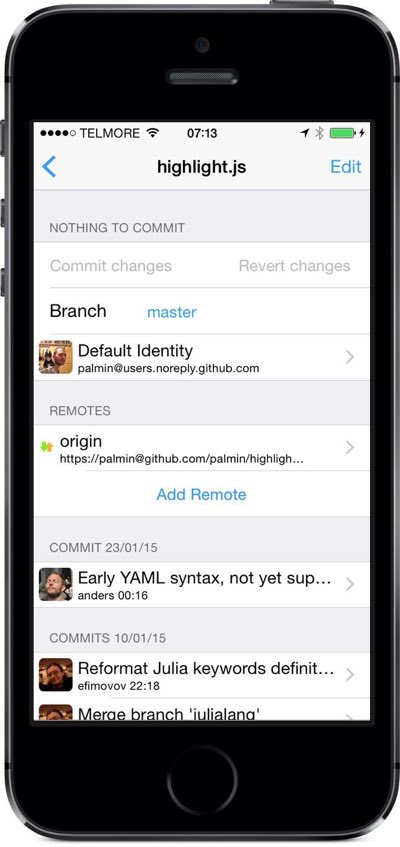
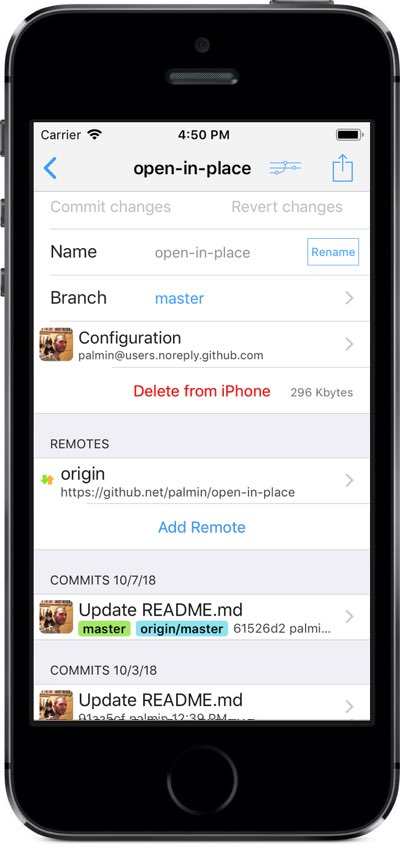
describe how to delete commits and update screenshots to show delete button

diff --git a/manual.html b/manual.html
@@ -49,7 +49,8 @@
             <li class="header3"><a href="#cloning-repos">1.1 Cloning repositories</a>,</li>
             <li class="header3"><a href="#accessing-files">1.2 Accessing files</a>,</li>
             <li class="header3"><a href="#committing-changes">1.3 Committing changes</a>,</li>
-            <li class="header3"><a href="#up-to-date">1.4 Staying up-to-date</a></li>
+            <li class="header3"><a href="#up-to-date">1.4 Staying up-to-date</a>,</li>
+            <li class="header3"><a href="#deleting-repos">1.5 Deleting repositories</a></li>
 
             <li class="header2"><a href="#remotes">2. Remotes:</a></li>
             <li class="header3"><a href="#clone-catalog">2.1 Clone catalog</a>,</li>
@@ -184,7 +185,6 @@
 
 </div>
     <div class="inner">
-
         <h3 id="up-to-date">1.4 Staying up-to-date</h3>
         <div class="right"><img class="right" src="img/status-79.jpg" onload="imgLoaded(this)"
                                 _dark_src="img/status-79-transparent.png"
@@ -210,9 +210,15 @@
 
         <p>As a short-hand you can <em>Fetch</em>, <em>Merge</em> and <em>Push</em> a repository with the <em>Sync</em> button
             on the detail screen of your remote.</p>
+
+        <h3 id="deleting-repos">1.5 Deleting repositories</h3>
+        <p>Once you are done with a repository you can delete it from the
+           repository status screen. This has no influence on any remote repositories. </p>
+
         <div style="clear: both;"></div>
 
     </div>
+
     <h2 id="remotes">2. Remotes</h2>
 
     <div class="inner">
